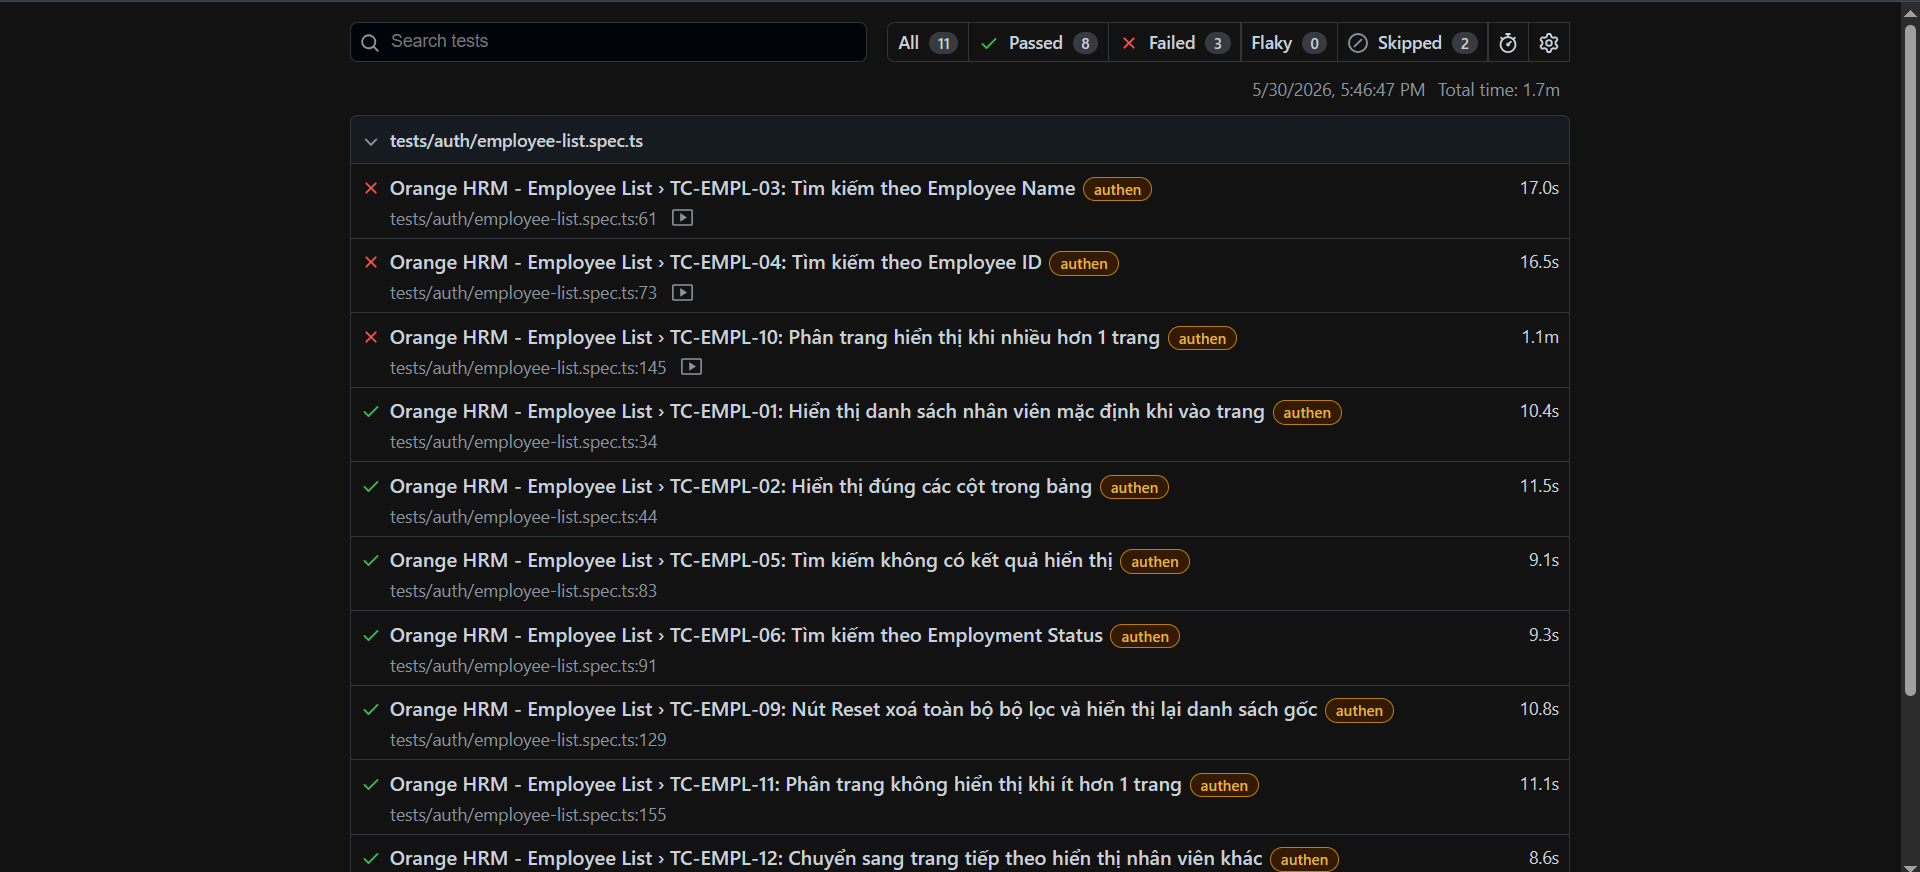
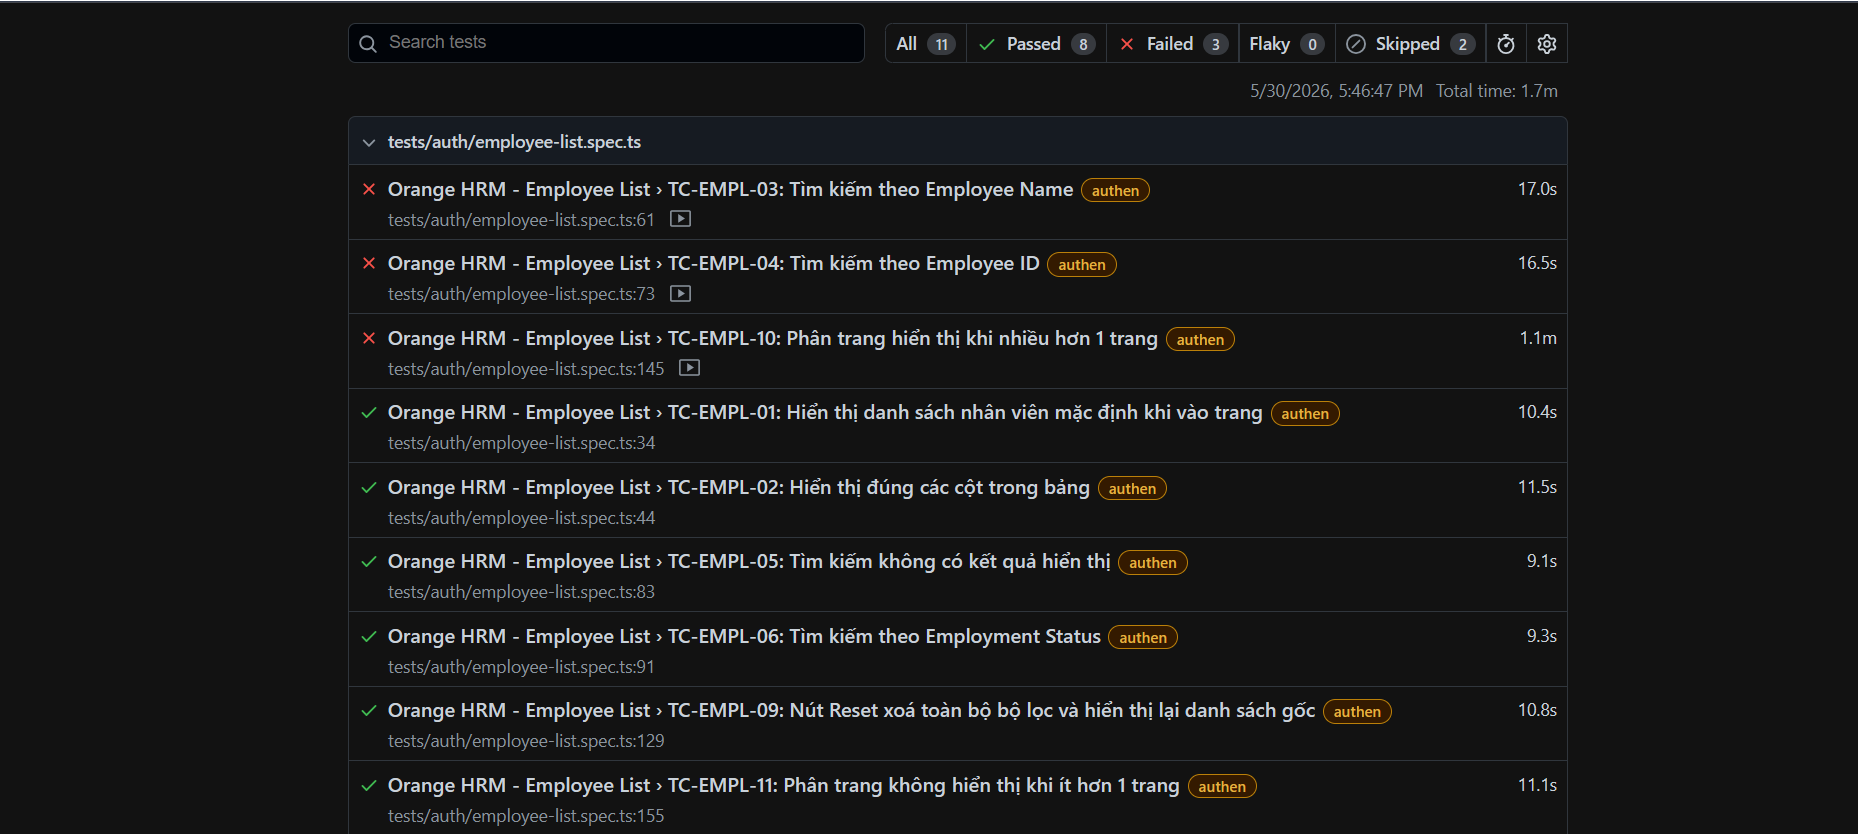
update

diff --git a/README.md b/README.md
@@ -1,8 +1,12 @@
-# playwright-test
 # OrangeHRM Automation Test Project
 
-## Introduction
-This project is designed to automate software testing processes in order to:
+## About OrangeHRM
+
+[OrangeHRM](https://orangehrm.com/) is a flexible, all in one HR software that helps businesses of all sizes manage their people, streamline HR processes, and drive growth. From employee management to recruitment and onboarding, performance management and leave management, our HRMS platform makes it easier to keep your workforce productive and engaged.
+
+## Project Overview
+
+This project is designed to apply automation testing processes to [open source website](https://opensource-demo.orangehrmlive.com/web/index.php/auth/login) from OrangeHRM. The project aims to help:
 
 - Reduce manual testing effort
 - Improve accuracy and stability
@@ -10,17 +14,19 @@ This project is designed to automate software testing processes in order to:
 
 ---
 
-## Technology used
+## Technology Used
+
 - **Language:** Typescript
 - **Framework:** [Playwright](https://playwright.dev#heading-ids)
 - **Build Tool:** npm
+
 ---
 
 ## Project Structure
 
 ```bash
 project-root/
-│
+
 ├── tests/                 # Test cases
 ├── pages/                 # Page Object Models
 ├── data/                  # Test data
@@ -31,7 +37,7 @@ project-root/
 
 ---
 
-## Environment
+## Environment Requirements
 
 - NodeJS 18+
 - Chrome
@@ -50,7 +56,6 @@ cd OrangeHRM-playwright-test-project
 
 ### Install dependencies
 
-
 #### NodeJS
 
 ```bash
@@ -62,20 +67,27 @@ npm install
 ## Run test
 
 ### Run all test cases (with authentication)
+
 #### 1. Save session before run test
+
 ```bash
 npx playwright test auth.setup.ts   # Do the log in and save session
 ```
+
 #### 2. Run all test cases
+
 ```bash
 npx playwright test tests/auth
 ```
+
 #### 3. Run specific test file
+
 ```bash
 npx playwright test tests/auth/example.spec.ts
 ```
 
 ### Run test on UI mode
+
 ```bash
 npx playwright test --ui   # run test cases on UI mode
 ```
@@ -83,15 +95,20 @@ npx playwright test --ui   # run test cases on UI mode
 ---
 
 ## Report
+
 ### View Report
+
 ```bash
 npx playwright show-report   # view report on website
 ```
+
 For example:
 ![Example Report](screenshots/report.png)
 
 ### Extent Report
+
 The generated report can be found in the following directory:
+
 ```bash
 playwright-report/
 ```
@@ -99,6 +116,7 @@ playwright-report/
 ---
 
 ## Best Practices
+
 - Apply Page Object Model (POM)
 - Avoid hardcoded test data
 - Keep tests independent
